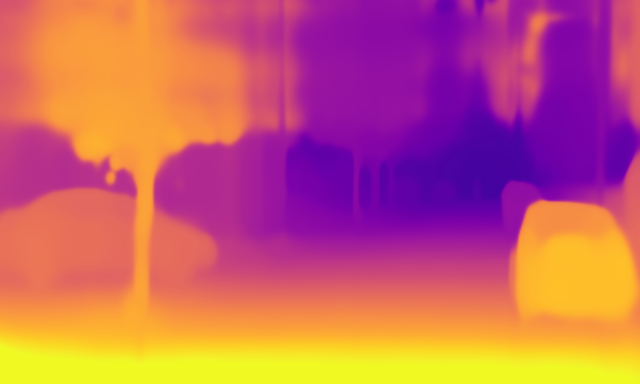
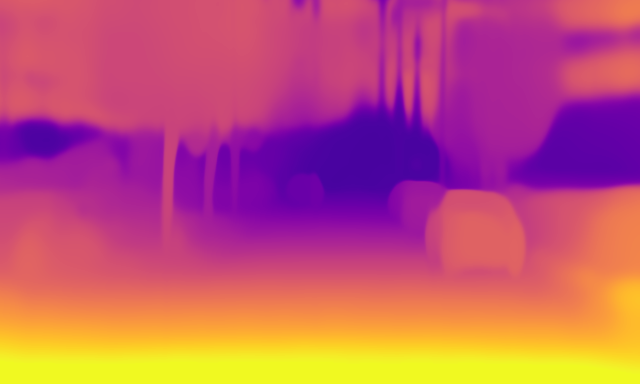
Save the image with the file name

diff --git a/torchhub_2_via_efmdataset.py b/torchhub_2_via_efmdataset.py
@@ -18,15 +18,22 @@ name = sys.argv[2]
 cfg = read_config(config)
 
 ## 設定を上書き
-time_range = [-1,1]
-add_idx = 1 #range内のどこのデータを表示するか指定します。
+time_range = [-5,5]
+add_idx = 5 #range内のどこのデータを表示するか指定します。
+if time_range[0] <= add_idx <= time_range[1]:
+    # add_idx is within the time_range, so keep its value
+    pass  # This pass statement is optional and just keeps the structure clear
+else:
+    # add_idx is outside the time_range, so reset its value to 0
+    add_idx = 0
+infe_camera = 0 #どのカメラのデータを表示するか指定します。0なら左、1なら右です。
 current_object = getattr(cfg, name)# getattr関数を使って、現在のオブジェクトを取得します。
 setattr(current_object, 'context', time_range)# 時間的にどこからどこまでのデータを使うかを指定します。[-1,1]なら、現在のフレームと前後1フレームのデータを使います。
 
 dataset = setup_dataset(cfg.dict[name])[0]
 # display = DisplayDataset(dataset)
-rgb, intrinsics = DisplayDataset.infer(dataset)
-
+rgb, intrinsics, filename = DisplayDataset.infer(dataset,add_idx,infe_camera)
+pdb.set_trace()
 ## フォルダを作成
 if not os.path.exists(f"Infe_data/{name}"):
     os.mkdir(f"Infe_data/{name}")
@@ -39,7 +46,7 @@ rgb_disp = rgb.squeeze().cpu().detach().numpy()
 rgb_disp = np.transpose(rgb_disp, (1, 2, 0))
 rgb_disp = cv2.cvtColor((rgb_disp*255).astype(np.uint8),cv2.COLOR_RGB2BGR)
 # print(rgb_disp)
-cv2.imwrite(f"Infe_data/{name}/rgb_input.png", rgb_disp)
+
 
 ## Infer from rgb and intrinsics
 zerodepth_model = torch.hub.load("TRI-ML/vidar", "ZeroDepth", pretrained=True, trust_repo=True)
@@ -51,7 +58,7 @@ def resize_rgb_intrinsics(rgb, intrinsics):
     rgb_h, rgb_w = rgb.shape[2], rgb.shape[3]
     #rgbを[1,3,height,width]の形状から[1,3,384,640]の形状に変換
     resized_tensor = torch.nn.functional.interpolate(rgb, size=(384, 640), mode='bilinear', align_corners=False)
-    print(rgb.shape)
+    # print(rgb.shape)
     intrinsics2 = intrinsics.clone()
     fx_new = intrinsics[0,0,0].item()*640/rgb_w
     cx_new = intrinsics[0,0,2].item()*640/rgb_w
@@ -61,13 +68,14 @@ def resize_rgb_intrinsics(rgb, intrinsics):
     intrinsics2[0,0,2] = cx_new
     intrinsics2[0,1,1] = fy_new
     intrinsics2[0,1,2] = cy_new
-    print("intrinsics2:", intrinsics2)
-    print("intrinsics:", intrinsics)
+    # print("intrinsics2:", intrinsics2)
+    # print("intrinsics:", intrinsics)
     return resized_tensor, intrinsics2
 
 rgb2, intrinsics2 = resize_rgb_intrinsics(rgb, intrinsics)
 depth_pred = zerodepth_model(rgb2, intrinsics2)
 print(depth_pred)
+# 正解Depthを読み込んで誤差比較
 
 ## depth_predをNumPy配列に変換して勾配情報を切り離して、CPUに送って、次元削減
 depth_pred_np = depth_pred.squeeze().cpu().detach().numpy()
@@ -90,15 +98,18 @@ def depth_to_rgb(depth_data, depth_min, depth_max):
 
 # viz_depthを使ってdepthを可視化
 depth_rgb_image_vizdepth = viz_depth(depth_pred) 
-print(depth_rgb_image_vizdepth.shape)   
+print(depth_rgb_image_vizdepth.shape)
+
+#データ名を返す
 
 ## depthをRGBに変換
 depth_rgb_image = depth_to_rgb(depth_pred_np, depth_pred_min, depth_pred_max)
-
+## input（RGB）を保存
+cv2.imwrite(f"Infe_data/{name}/rgb_input{infe_camera}_{filename}.png", rgb_disp)
 ## output（モノクロ）を保存
-# cv2.imwrite("depth.png", depth_pred_np)
+# cv2.imwrite("depth{infe_camera}_{add_idx}.png", depth_pred_np)
 ## RGBoutputを保存
-cv2.imwrite(f"Infe_data/{name}/depth_color.png", depth_rgb_image)
+# cv2.imwrite(f"Infe_data/{name}/depth_color{infe_camera}_{add_idx}.png", depth_rgb_image)
 #RGBoutput2を保存
-write_image(f"Infe_data/{name}/depth_c_inv.png", depth_rgb_image_vizdepth)
+write_image(f"Infe_data/{name}/depth_c_inv{infe_camera}_{filename}.png", depth_rgb_image_vizdepth)
 print("最後まできたよ")

diff --git a/efm_datasets/dataloaders/DrivingStereoDataset.py b/efm_datasets/dataloaders/DrivingStereoDataset.py
@@ -92,6 +92,7 @@ class DrivingStereoDataset(BaseDataset):
             add_flag = True
             if add_flag and self.with_depth:
                 # Check if depth file exists
+                
                 depth = self._get_depth_file(path, self.depth_type)
                 add_flag = depth is not None and os.path.exists(depth)
             if add_flag:
@@ -144,6 +145,7 @@ class DrivingStereoDataset(BaseDataset):
     @staticmethod
     def _get_intrinsics(image_file, calib_data):
         """Get intrinsics from the calib_data dictionary."""
+        # pdb.set_trace()
         for cam in ['left', 'right']:
             # Check for both cameras, if found replace and return intrinsics
             if IMAGE_FOLDER[cam] in image_file:
@@ -173,6 +175,7 @@ class DrivingStereoDataset(BaseDataset):
 
     def get_filename(self, sample_idx):
         """Returns the filename for an index."""
+        
         filename = os.path.splitext(self.paths[sample_idx].replace(self.path + '/', ''))[0]
         for cam in ['left', 'right']:
             filename = filename.replace('{}/data'.format(IMAGE_FOLDER[cam]),
@@ -298,7 +301,6 @@ class DrivingStereoDataset(BaseDataset):
 
     def _get_pose(self, image_file, camera):
         """Gets the pose information from an image file."""
-        # pdb.set_trace()
         if image_file in self.pose_cache:
             return self.pose_cache[image_file]
         # Find origin frame in this sequence to determine scale & origin translation

diff --git a/scripts/display/DisplayDataset.py b/scripts/display/DisplayDataset.py
@@ -205,22 +205,27 @@ class DisplayDataset:
             self.draw.update(30)
     
     @staticmethod   
-    def infer(dataset):
+    def infer(dataset,add_idx=0,infe_camera=0):
         
         idx = 0
-        tgt = (0, 0)
-        dataset = dataset
+        # tgt = (0, 0)
+        # dataset = dataset
 
-        tasks = ['rgb', 'depth']
-        cam_colors = ['red', 'blu', 'gre', 'yel', 'mag', 'cya'] * 100
-        offset = [None, None, None, None, -1, 1]
+        # tasks = ['rgb', 'depth']
+        # cam_colors = ['red', 'blu', 'gre', 'yel', 'mag', 'cya'] * 100
+        # offset = [None, None, None, None, -1, 1]
         
         data = dataset[idx]
-
         data = make_batch(data)
         data = fold_batch(data)
-
-        rgb = data['rgb'][(2, 1)]#(時間差,カメラ)
-        intrinsics = get_from_dict(data, 'intrinsics')[(2, 1)]
-
-        return rgb, intrinsics
+        
+        rgb = data['rgb'][(add_idx, infe_camera)]#(時間差,カメラ)
+        intrinsics = get_from_dict(data, 'intrinsics')[(add_idx, infe_camera)]
+        #ファイルネームの取得（数字だけ）
+        filepath = data["filename"][((add_idx, infe_camera))]
+        # pdb.set_trace()
+        filename = filepath.split("/")[-1]
+        #数字部分のみ抽出して数値に変換
+        filename = filename.split(".")[0]
+        # filename = dataset._get_filename(add_idx)
+        return rgb, intrinsics, filename

diff --git a/efm_datasets/utils/setup.py b/efm_datasets/utils/setup.py
@@ -10,6 +10,7 @@ from efm_datasets.dataloaders.utils.transforms import no_transform
 from efm_datasets.utils.config import load_class, cfg_has, cfg_add_to_dict, get_from_cfg_list, merge_dict, to_namespace
 from efm_datasets.utils.data import flatten, keys_in
 from efm_datasets.utils.types import is_namespace
+import pdb
 
 
 def setup_dataset(cfg, root='efm_datasets/dataloaders'):
@@ -32,10 +33,11 @@ def setup_dataset(cfg, root='efm_datasets/dataloaders'):
         name = get_from_cfg_list(cfg, 'name', i)
         repeat = get_from_cfg_list(cfg, 'repeat', i)
         dataset = load_class(name + 'Dataset', root)(**args)
+        # pdb.set_trace()
         if cfg_has(cfg, 'repeat') and repeat > 1:
             dataset = ConcatDataset([dataset for _ in range(repeat)])
         datasets.append(dataset)
-
+    
     return datasets
 
 
